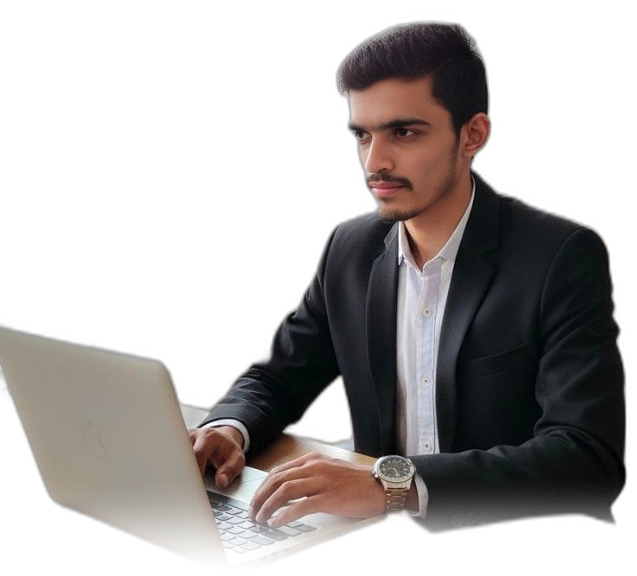
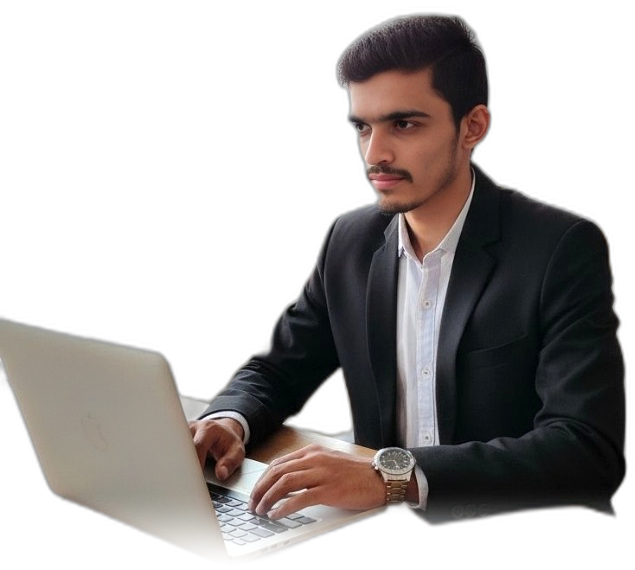
feat: replace portrait with high-res transparent cutout and bust browser image cache

diff --git a/components/sections/Hero.tsx b/components/sections/Hero.tsx
@@ -189,9 +189,9 @@ export function Hero({ hasResume = false }: HeroProps) {
               </div>
 
               {/* Main Cutout Portrait: Completely transparent background, natural editorial integration */}
-              <div className="relative z-10 w-full max-w-[500px] sm:max-w-[560px] xl:max-w-[620px] aspect-[637/576] flex items-end justify-center select-none">
+              <div className="relative z-10 w-full max-w-[500px] sm:max-w-[560px] xl:max-w-[620px] aspect-[635/570] flex items-end justify-center select-none">
                 <Image
-                  src="/images/jay-chavda-hero.png"
+                  src="/images/jay-chavda-portrait.png"
                   alt="Jay Chavda - AI/ML Engineer & Generative AI Developer"
                   fill
                   priority
@@ -200,7 +200,7 @@ export function Hero({ hasResume = false }: HeroProps) {
                 />
 
                 {/* Natural bottom fade into page background */}
-                <div className="absolute -bottom-1 inset-x-0 h-20 bg-gradient-to-t from-[#08090C] via-[#08090C]/80 to-transparent pointer-events-none" />
+                <div className="absolute -bottom-1 inset-x-0 h-14 bg-gradient-to-t from-[#08090C] via-[#08090C]/60 to-transparent pointer-events-none" />
               </div>
 
               {/* Floating Technical Badge 1: Top Right - FastAPI */}
